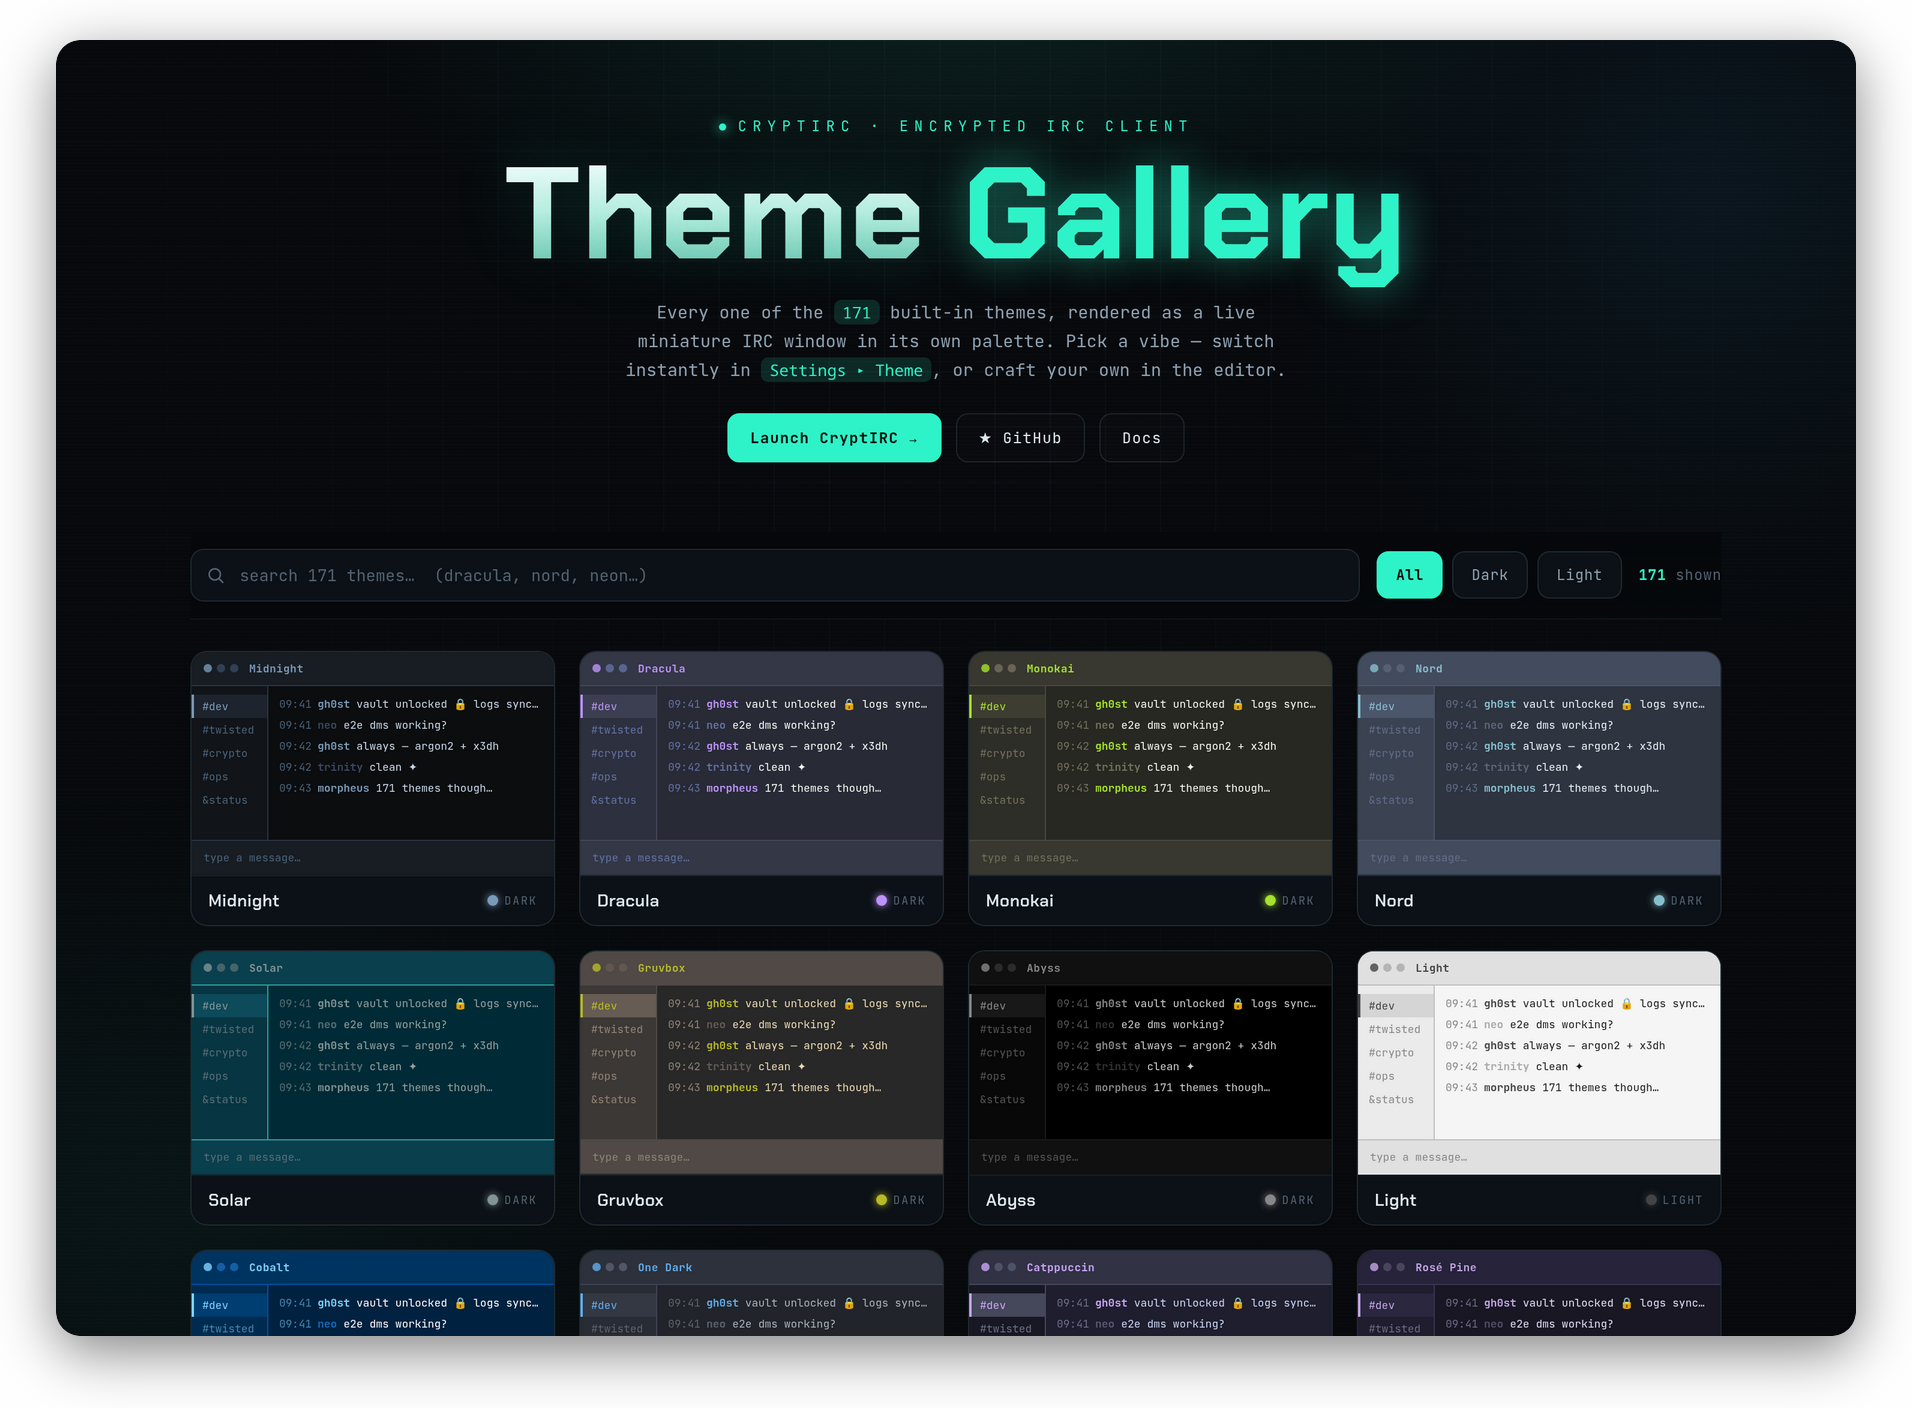
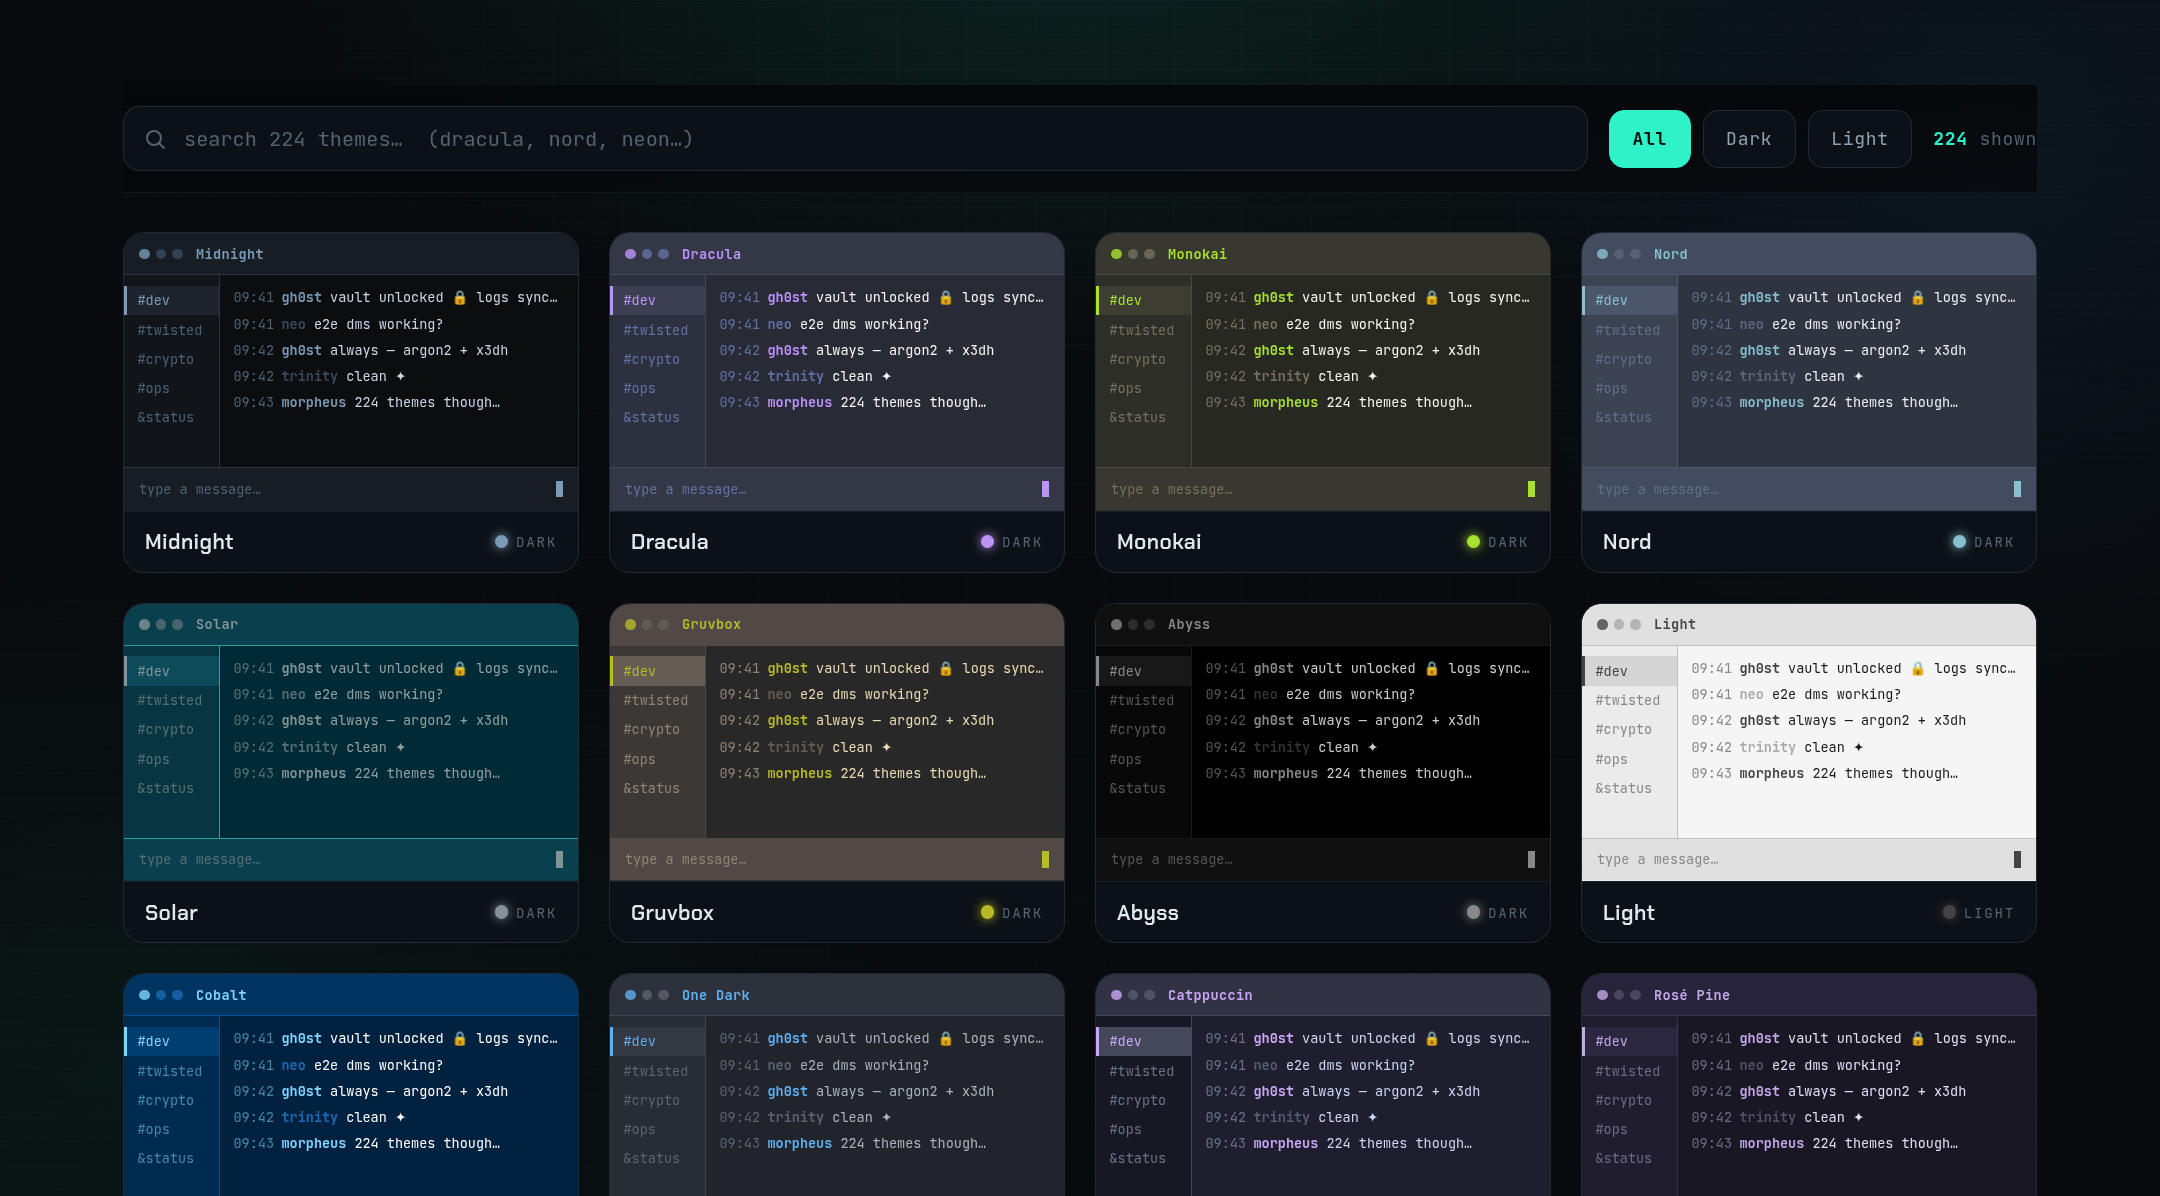
README: refresh for v0.5.0 and rework the presentation
Content
- Themes section rewritten for what actually shipped: 224 built-in (160 static,
  64 animated, 90 with an SVG backdrop), and the two features that were missing
  entirely — customizing any built-in theme via the ✎ into your own ★ copy, and
  putting your own picture behind any theme with opacity/blur/dim/tiling.
- Theme family table extended with the seven new packs (materials, weather,
  living world, art & culture, print & optical, instruments, warm/edible).
- Key Features bullet updated to match. Every 173/174 count is now 224.
- screenshots/theme-gallery.png regenerated from the live gallery — it was
  still showing the pre-0.5.0 grid.

Presentation
- Badges regrouped into three coherent rows (status / security / scale) on a
  single flat-square + dark-label system, replacing a mixed-style row with
  ad-hoc colours. Every badge and link verified to resolve.
- Hero tightened: one-line positioning statement, a console block showing the
  actual one-command deploy, and the hosted-instance and support blocks split
  apart so each reads on its own.

Tooling
- scripts/sync-version.sh only understood a shields.io *named* colour, so the
  new hex-coloured badge made `check` report unreadable drift, and `fix` would
  have overwritten the colour and style params with `-brightgreen`. Both regexes
  are now colour-agnostic and preserve the query string; verified by desyncing
  the badge and confirming `fix` restores it byte-identically.
[…]

diff --git a/README.md b/README.md
@@ -1,46 +1,75 @@
 <p align="center">
-  <img src="static/icon.svg" width="80" height="80" alt="CryptIRC">
+  <img src="static/icon.svg" width="88" height="88" alt="CryptIRC">
 </p>
 
 <h1 align="center">CryptIRC</h1>
 
 <p align="center">
-  <strong>End-to-end encrypted IRC client for the web</strong>
+  <b>End-to-end encrypted IRC. Self-hosted. Always on.</b>
 </p>
 
 <p align="center">
-  <img src="https://img.shields.io/badge/rust-1.78+-orange?logo=rust" alt="Rust">
-  <img src="https://img.shields.io/badge/encryption-AES--256--GCM-green?logo=letsencrypt" alt="AES-256-GCM">
-  <img src="https://img.shields.io/badge/protocol-Signal%20E2E-blue?logo=signal" alt="Signal Protocol">
-  <img src="https://img.shields.io/badge/version-0.5.0-brightgreen" alt="Version">
-  <img src="https://img.shields.io/badge/%F0%9F%A4%96%20AI-9%20providers%20%2B%20ChatGPT%20OAuth-00d4aa" alt="AI">
-  <img src="https://img.shields.io/badge/bots-19%20built--in-ff8800" alt="Bots">
-  <img src="https://img.shields.io/badge/themes-173-9b59ff" alt="Themes">
-  <img src="https://img.shields.io/badge/fonts-140-blue" alt="Fonts">
-  <img src="https://img.shields.io/badge/commands-100+-red" alt="Commands">
-  <img src="https://img.shields.io/badge/license-private-lightgrey" alt="License">
+  <sub>Your server holds the connection. Your device holds the key.<br>
+  The server can't read a single thing it stores for you — and that's architectural, not a policy.</sub>
 </p>
 
 <p align="center">
-  <a href="https://cryptirc.com"><b>🌐 cryptirc.com</b></a> ·
-  <a href="https://gh0st68.github.io/CryptIRC/"><b>🎨 Browse the live Theme Gallery</b></a> ·
-  <a href="https://client.twistednet.org/cryptirc"><b>Launch the hosted client</b></a> ·
-  <a href="https://github.com/gh0st68/CryptIRC/releases"><b>Download apps</b></a>
+  <img src="https://img.shields.io/badge/version-0.5.0-00d4aa?style=flat-square&labelColor=0b0d0f" alt="Version">
+  <img src="https://img.shields.io/badge/rust-1.78%2B-e43717?style=flat-square&labelColor=0b0d0f&logo=rust&logoColor=white" alt="Rust">
+  <img src="https://img.shields.io/badge/platform-linux-f0c040?style=flat-square&labelColor=0b0d0f&logo=linux&logoColor=white" alt="Linux">
+  <img src="https://img.shields.io/badge/PWA-installable-6c7ce0?style=flat-square&labelColor=0b0d0f&logo=pwa&logoColor=white" alt="PWA">
+  <img src="https://img.shields.io/badge/license-proprietary-6a7480?style=flat-square&labelColor=0b0d0f" alt="License">
 </p>
 
 <p align="center">
-  <b>For support, bugs, or just want to stop by:</b><br>
-  <code>irc.twistednet.org</code> — <b>#dev</b> &amp; <b>#twisted</b>
+  <img src="https://img.shields.io/badge/logs-AES--256--GCM-3ddc84?style=flat-square&labelColor=0b0d0f" alt="Encrypted logs">
+  <img src="https://img.shields.io/badge/DMs-Signal%20Protocol-2592e9?style=flat-square&labelColor=0b0d0f&logo=signal&logoColor=white" alt="Signal Protocol">
+  <img src="https://img.shields.io/badge/vault-Argon2id-9b59ff?style=flat-square&labelColor=0b0d0f" alt="Argon2id">
+  <img src="https://img.shields.io/badge/server-zero--knowledge-00d4aa?style=flat-square&labelColor=0b0d0f" alt="Zero knowledge">
 </p>
 
 <p align="center">
-  👻 <b>Developed by gh0st</b>
+  <img src="https://img.shields.io/badge/themes-224-9b59ff?style=flat-square&labelColor=0b0d0f" alt="224 themes">
+  <img src="https://img.shields.io/badge/fonts-140-0099ff?style=flat-square&labelColor=0b0d0f" alt="140 fonts">
+  <img src="https://img.shields.io/badge/bots-19-ff8800?style=flat-square&labelColor=0b0d0f" alt="19 bots">
+  <img src="https://img.shields.io/badge/AI-9%20providers-00d4aa?style=flat-square&labelColor=0b0d0f" alt="9 AI providers">
+  <img src="https://img.shields.io/badge/commands-100%2B-e05555?style=flat-square&labelColor=0b0d0f" alt="100+ commands">
+  <img src="https://img.shields.io/badge/IRCv3-17%20caps-f0c040?style=flat-square&labelColor=0b0d0f" alt="IRCv3">
 </p>
 
 <p align="center">
-  <b>Don't feel like setting up your own? Use ours — free.</b><br>
-  Register at <a href="https://client.twistednet.org/cryptirc"><code>https://client.twistednet.org/cryptirc</code></a><br>
-  <sub>Your vault key is derived from your passphrase on your device. The passphrase is <b>never</b> sent to the server or stored anywhere. All your logs, DMs, credentials, and notes are encrypted with that key before they touch disk — even we can't read them.</sub>
+  <a href="https://cryptirc.com"><b>cryptirc.com</b></a> &nbsp;·&nbsp;
+  <a href="https://gh0st68.github.io/CryptIRC/"><b>Theme Gallery</b></a> &nbsp;·&nbsp;
+  <a href="https://client.twistednet.org/cryptirc"><b>Hosted client</b></a> &nbsp;·&nbsp;
+  <a href="https://github.com/gh0st68/CryptIRC/releases"><b>Downloads</b></a>
+</p>
+
+---
+
+```console
+$ git clone https://github.com/gh0st68/CryptIRC.git && cd CryptIRC
+$ sudo bash deploy/deploy.sh yourdomain.com you@yourdomain.com
+
+  [✓] dependencies resolved        [✓] systemd units hardened
+  [✓] TLS provisioned (Caddy)      [✓] irc-core daemon online
+  [✓] both binaries built          [✓] https://yourdomain.com ready
+```
+
+<p align="center">
+  <sub><b>One command.</b> Debian · Ubuntu · Arch. Nothing else to configure.</sub>
+</p>
+
+---
+
+<p align="center">
+  <b>Don't want to run your own? Use ours — free.</b><br>
+  <a href="https://client.twistednet.org/cryptirc"><code>client.twistednet.org/cryptirc</code></a><br>
+  <sub>Your vault key is derived from your passphrase <b>on your device</b>. The passphrase is <b>never</b> sent to the server or stored anywhere. Logs, DMs, credentials and notes are encrypted with that key before they touch disk — <b>even we can't read them.</b></sub>
+</p>
+
+<p align="center">
+  <b>Support · bugs · hanging out:</b> &nbsp;<code>irc.twistednet.org</code> &nbsp;→&nbsp; <b>#dev</b> · <b>#twisted</b><br>
+  <sub>👻 built by <b>gh0st</b></sub>
 </p>
 
 <p align="center">
@@ -110,7 +139,7 @@ CryptIRC encrypts **everything** before it touches disk. The server cannot read 
 - **Multi-network** — connect to as many IRC networks as you want simultaneously
 - **Multi-device sync** — messages, favorites, settings, unread counts sync across all your devices in real-time
 - **Push notifications** — get notified on your phone or desktop when someone DMs or mentions you, even when the app is closed
-- **224 themes** (64 animated — starfields, rain, aurora, Matrix code — plus a pixel-perfect **mIRC** Win95 skin and a **Discord** theme) + **140 fonts**, a live [theme gallery](https://gh0st68.github.io/CryptIRC/), and a full **custom theme editor**
+- **224 themes** (64 animated — starfields, rain, aurora, Matrix code — plus a pixel-perfect **mIRC** Win95 skin and a **Discord** theme) + **140 fonts** and a live [theme gallery](https://gh0st68.github.io/CryptIRC/). **Customize any of them** — hit ✎ on any theme to fork it into your own editable copy — and **put your own picture behind any theme**, with opacity, blur and dim so your chat stays readable
 - **🐑🦀👻🐟👽 Desktop pets** — five to pick from (desktop, mobile, or both): the classic '95 **eSheep** (wanders, climbs walls, naps, UFO abduction), a furious **Angry Crab** (scuttles sideways, snaps its claws, eats shrimp, naps, digs — drag it around, and it pesters the sheep), a friendly **Ghost** (floats freely, fades through walls, the odd spooky "BOO!"), a serene **Calm Fish** (drifts around, click near it to feed), and a **Little Alien** flying saucer (UFO tractor-beam abductions). The sheep and crab are draggable; the ghost, fish, and alien let clicks pass through
 - **In-app News & changelog** with an auto-versioning build badge, so you always see exactly what changed
 - **Full IRCv3 support** — 17 user-toggleable capabilities including typing indicators, away-notify, server-time, message-tags, plus SASL PLAIN/EXTERNAL and nick MONITOR
@@ -146,30 +175,38 @@ That's it. Visit `https://yourdomain.com`, register an account, unlock your vaul
 
 ### Themes & Personalization
 
-**224 built-in themes** — 160 static + 64 animated (starfields, forest rain, aurora, Matrix code, the UFO/eSheep alien sequence, synthwave grids, and more), including a pixel-perfect **mIRC** skin with full Windows-95 window chrome and a **Discord** theme with its familiar dark UI. Each is hand-tuned across a 10-color palette. Plus a full **custom theme editor** (build your own, drop in a background image, customize link colors) and a **separate mobile theme**, so your phone and desktop can look completely different.
+**224 built-in themes** — 160 static + 64 animated — each hand-tuned across a full palette: five background layers, two border tiers, three text weights, matched accents and its own status colors. 90 ship an illustrated backdrop drawn in SVG. Highlights include a pixel-perfect **mIRC** skin with real Windows-95 window chrome and a **Discord** theme with its familiar dark UI.
 
 <p align="center">
   <a href="https://gh0st68.github.io/CryptIRC/">
-    <img src="screenshots/theme-gallery.png" width="900" alt="CryptIRC Theme Gallery — 173 live theme previews">
+    <img src="screenshots/theme-gallery.png" width="900" alt="CryptIRC Theme Gallery — 224 live theme previews">
   </a>
   <br>
-  <b><a href="https://gh0st68.github.io/CryptIRC/">🎨 Browse the live Theme Gallery →</a></b><br>
-  <sub>every theme rendered as a live miniature IRC window in its own palette — search, filter, and preview all 173</sub>
+  <b><a href="https://gh0st68.github.io/CryptIRC/">Browse the live Theme Gallery →</a></b><br>
+  <sub>every theme rendered as a live miniature IRC window in its own palette — search, filter and preview all 224</sub>
 </p>
 
-A taste of the range:
+#### Make any of them yours
+
+Hover any theme and hit **✎**. The editor opens on that exact theme — its colors, its animation, its artwork all loaded — and saving gives you your own copy, marked **★**. The original is never touched, so you can always go back.
+
+**Your own background, on any theme.** Upload an image or paste an `https://` link and it sits behind every theme you switch to. Opacity, blur, dim and tiling are all on sliders — and they work on the built-in artwork too, so a theme you liked but found too busy can simply be turned down. Uploads stay on that device; a linked image follows you everywhere.
 
 | Family | Examples |
-|--------|----------|
+|---|---|
 | **Editor classics** | Dracula · Monokai · Nord · Gruvbox · One Dark · Catppuccin · Solarized · Tokyo Night |
-| **App-inspired** | Discord · mIRC (full Win95 chrome) |
+| **App-inspired** | Discord · mIRC *(full Win95 chrome)* |
 | **Neon / cyberpunk** | Cyberpunk · Outrun · Blade Runner · Vaporwave · Hotline Miami · Neon Tokyo |
-| **Terminal / hacker** | Matrix · Hacker · Retro Terminal · Cyberdeck · Firewall |
-| **Nature / seasonal** | Aurora · Snowfall · Cherry Blossom · Ocean · Forest Rain · Northern Lights |
+| **Terminal / hacker** | Matrix · Hacker · Retro Terminal · Cyberdeck · CRT Terminal · Oscilloscope · Sonar |
+| **Materials & craft** | Blueprint · Carbon Fiber · Damascus Steel · Verdigris · Marble · Letterpress · Circuit Etch |
+| **Weather & light** | Blue Hour · Fog Bank · Heat Haze · Monsoon · Eclipse · Harvest Moon · Aurora · Snowfall |
+| **Living world** | Coral Reef · Mycelium · Butterfly Wing · Peacock · Tide Pool · Cherry Blossom · Forest Rain |
+| **Art & culture** | Ukiyo-e · Byzantine Gold · Kintsugi · Zellij · Sumi Ink · Runestone · Bauhaus · Art Deco |
+| **Print & optical** | Risograph · Halftone · Venetian · Infrared · X-Ray · Liquid Metal · Dreamcore |
 | **Mono / metal** | Stealth · Charcoal · Graphite · Slate · Noir · Obsidian |
-| **Gemstone / warm** | Emerald · Ruby · Sapphire · Amethyst · Lava · Copper · Golden Hour |
+| **Warm / edible** | Matcha · Citrus Grove · Berry · Honeycomb · Cacao · Neapolitan · Golden Hour |
 
-…and ~140 more — [see them all in the gallery](https://gh0st68.github.io/CryptIRC/).
+…and ~180 more — [see them all in the gallery](https://gh0st68.github.io/CryptIRC/).
 
 ### Encryption & Security
 - **Per-user vaults** -- each user has their own passphrase and encryption key (Argon2id KDF + AES-256-GCM)
